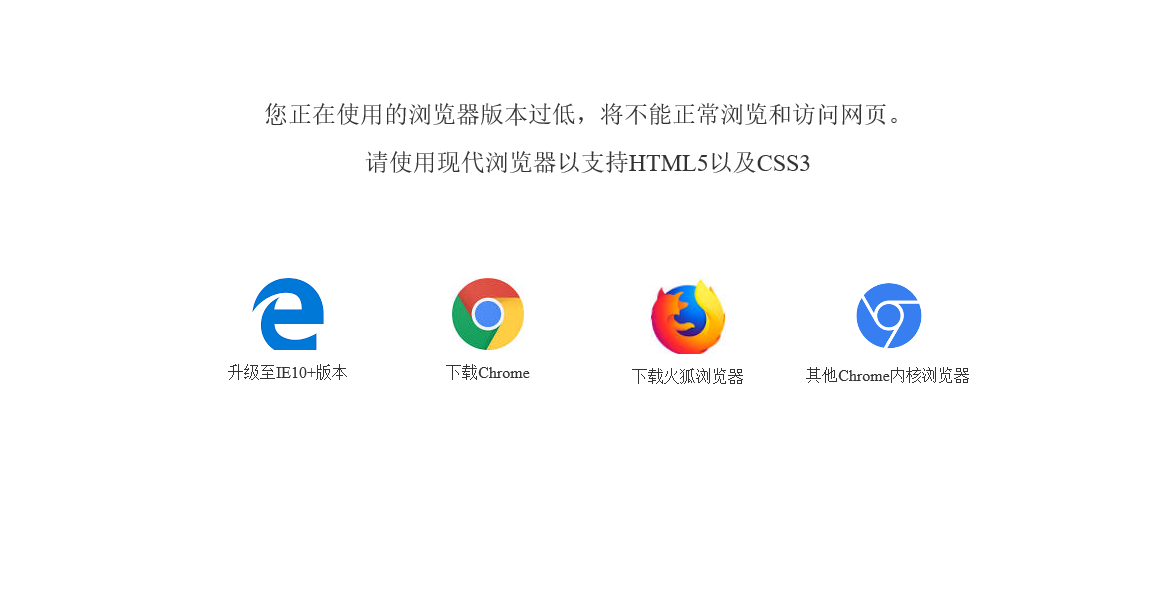
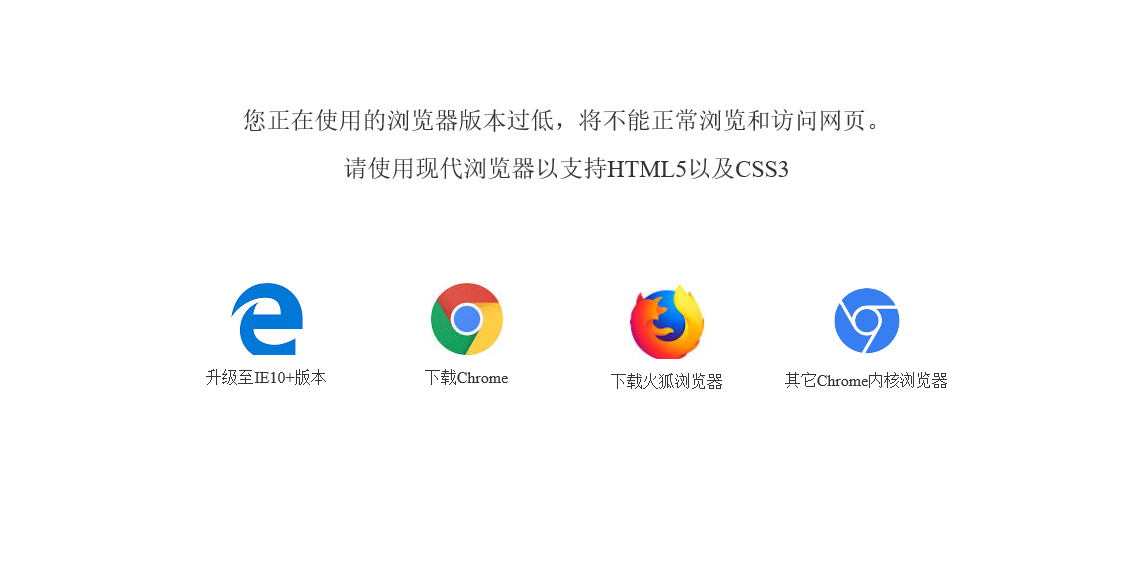
文字修改

diff --git a/browser.check.js b/browser.check.js
@@ -82,7 +82,7 @@
         document.writeln("            </div>");
         document.writeln("            <div style=\'width:25%;display: inline-block;float: left;\'>");
[1 lines of base64/hex data omitted]
-        document.writeln("                <a href=\'https://browser.qq.com/?adtag=SEM170314003\' target=\'_blank\' style=\'color: #333;text-decoration: none;\'>其他Chrome内核浏览器</a>");
+        document.writeln("                <a href=\'https://browser.qq.com/?adtag=SEM170314003\' target=\'_blank\' style=\'color: #333;text-decoration: none;\'>其它Chrome内核浏览器</a>");
         document.writeln("            </div>");
         document.writeln("        </div>");
         document.writeln("    </div>");
